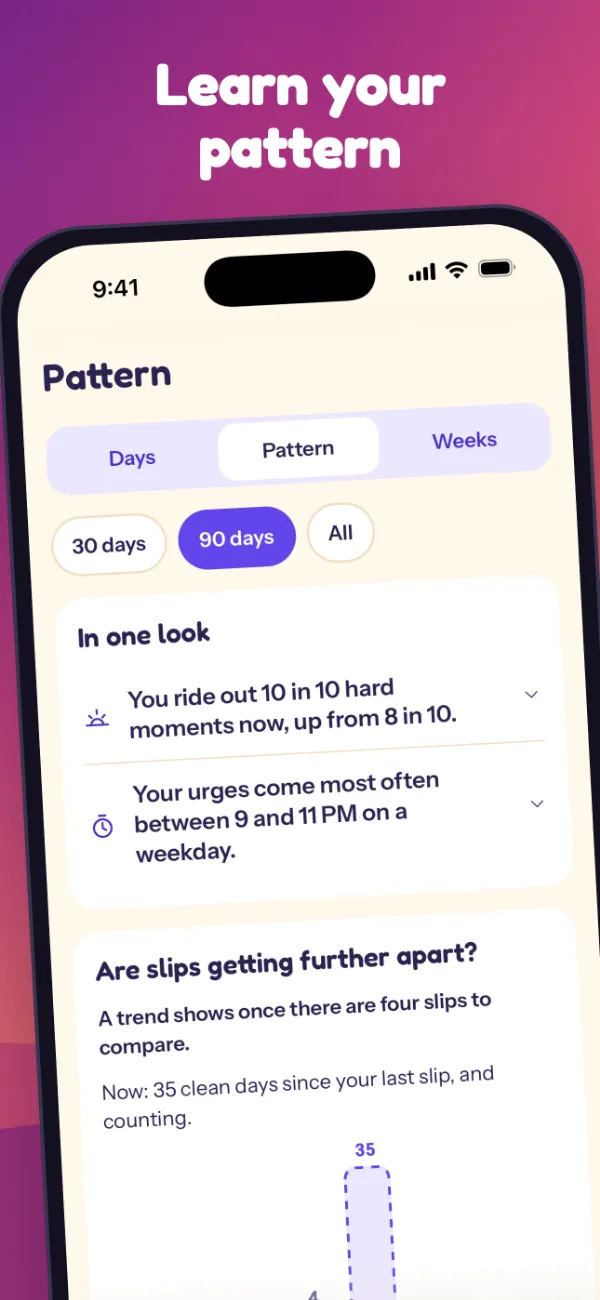
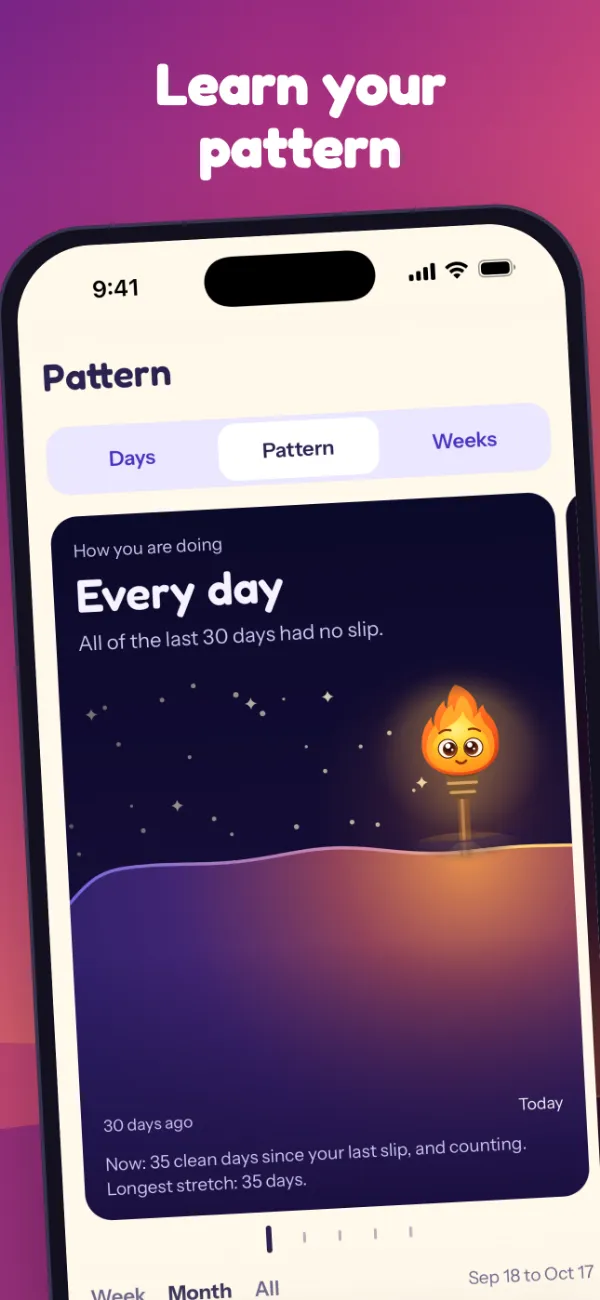
The store pictures of Pattern and privacy retaken: Learn your pattern shows the new first card, and the privacy sheet has its new top gap
Taken from main plus claude/graphs-739555 (5da19fb0) and the sheet gap from claude/obsidian-9ae9f4 (32ba161d). Merge this once the graphs are on main.

diff --git a/apps/mobile/public/about.html b/apps/mobile/public/about.html
@@ -418,7 +418,12 @@
           <img src="shots/01-today.webp" width="600" height="1300" alt="Today: your day, your progress toward graduation, and the SOS button." />
           <img src="shots/02-sos.webp" width="600" height="1300" loading="lazy" alt="SOS: breathe first, then a tool that fits the moment." />
           <img src="shots/03-grow.webp" width="600" height="1300" loading="lazy" alt="Milestones: points only go up, and a slip never takes them away." />
-          <img src="shots/04-pattern.webp" width="600" height="1300" loading="lazy" alt="Your pattern: the hours and moments that are hardest for you." />
+          <img
+            src="shots/04-pattern.webp"
+            width="600"
+            height="1300"
+            loading="lazy"
+            alt="Your pattern: how your last 30 days went, drawn as the hill your flame stands on." />
           <img src="shots/05-learn.webp" width="600" height="1300" loading="lazy" alt="Lessons: short, plain and hopeful, a few minutes a day." />
           <img
             src="shots/06-private.webp"
